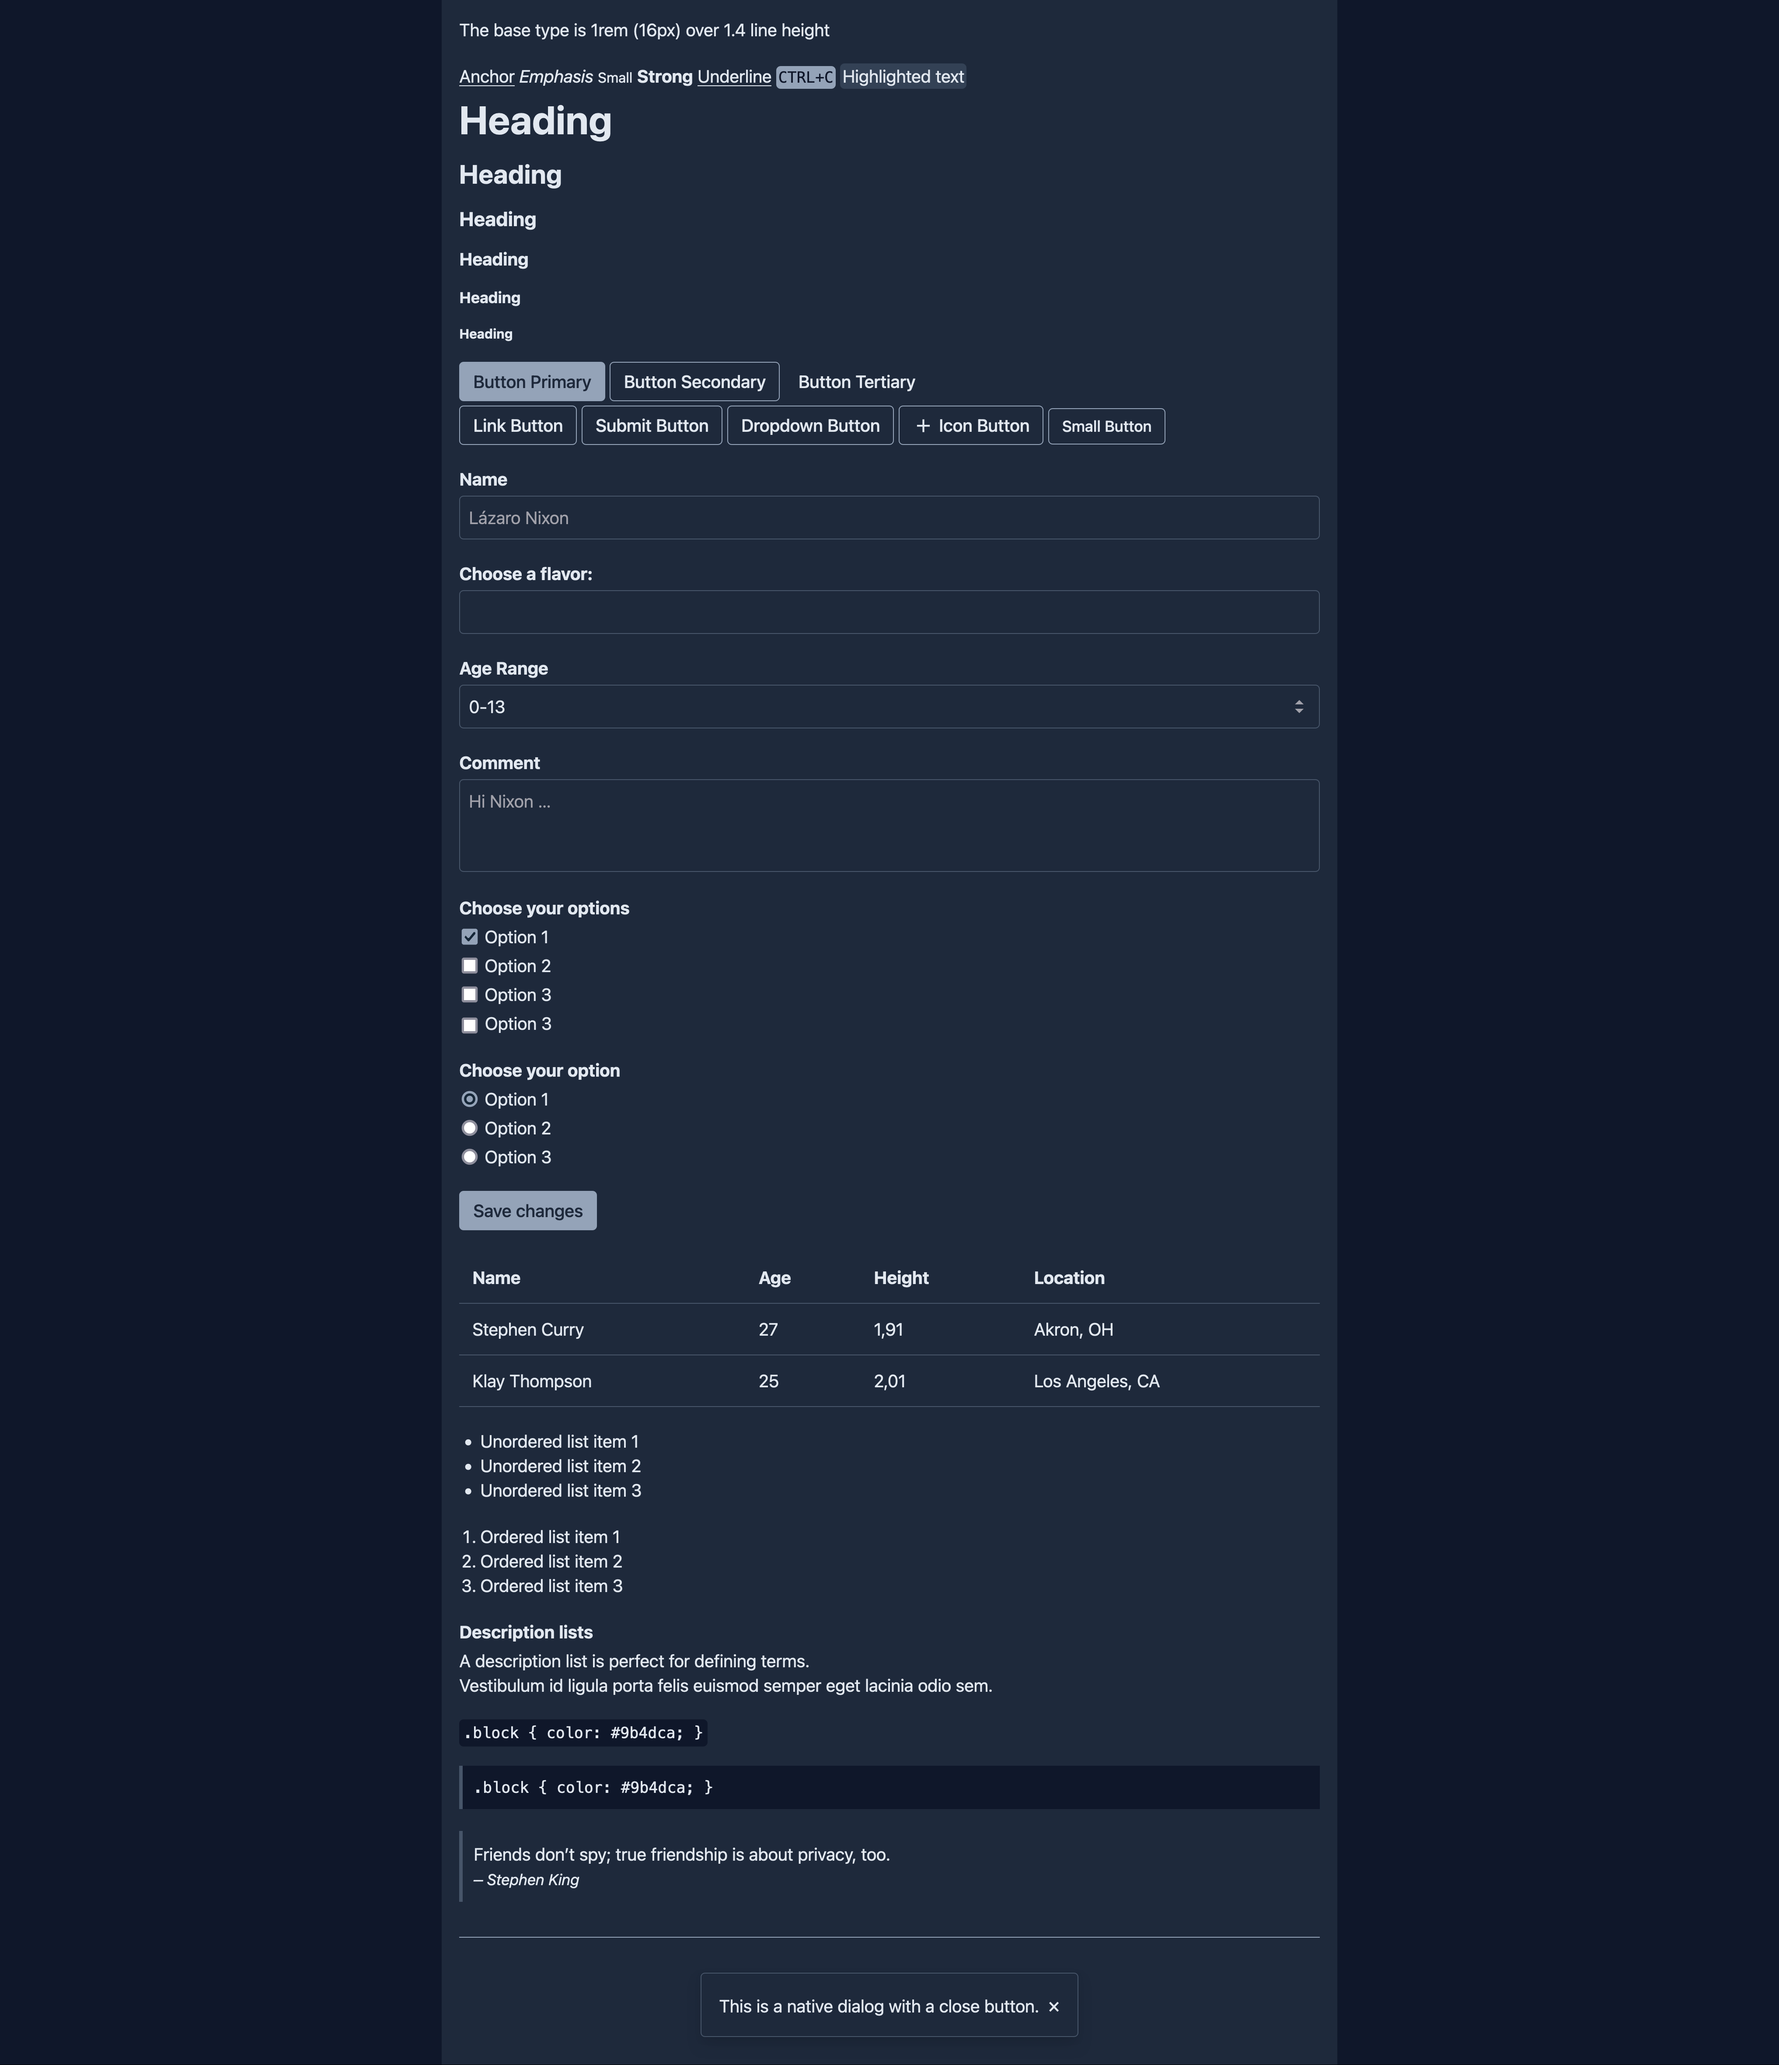
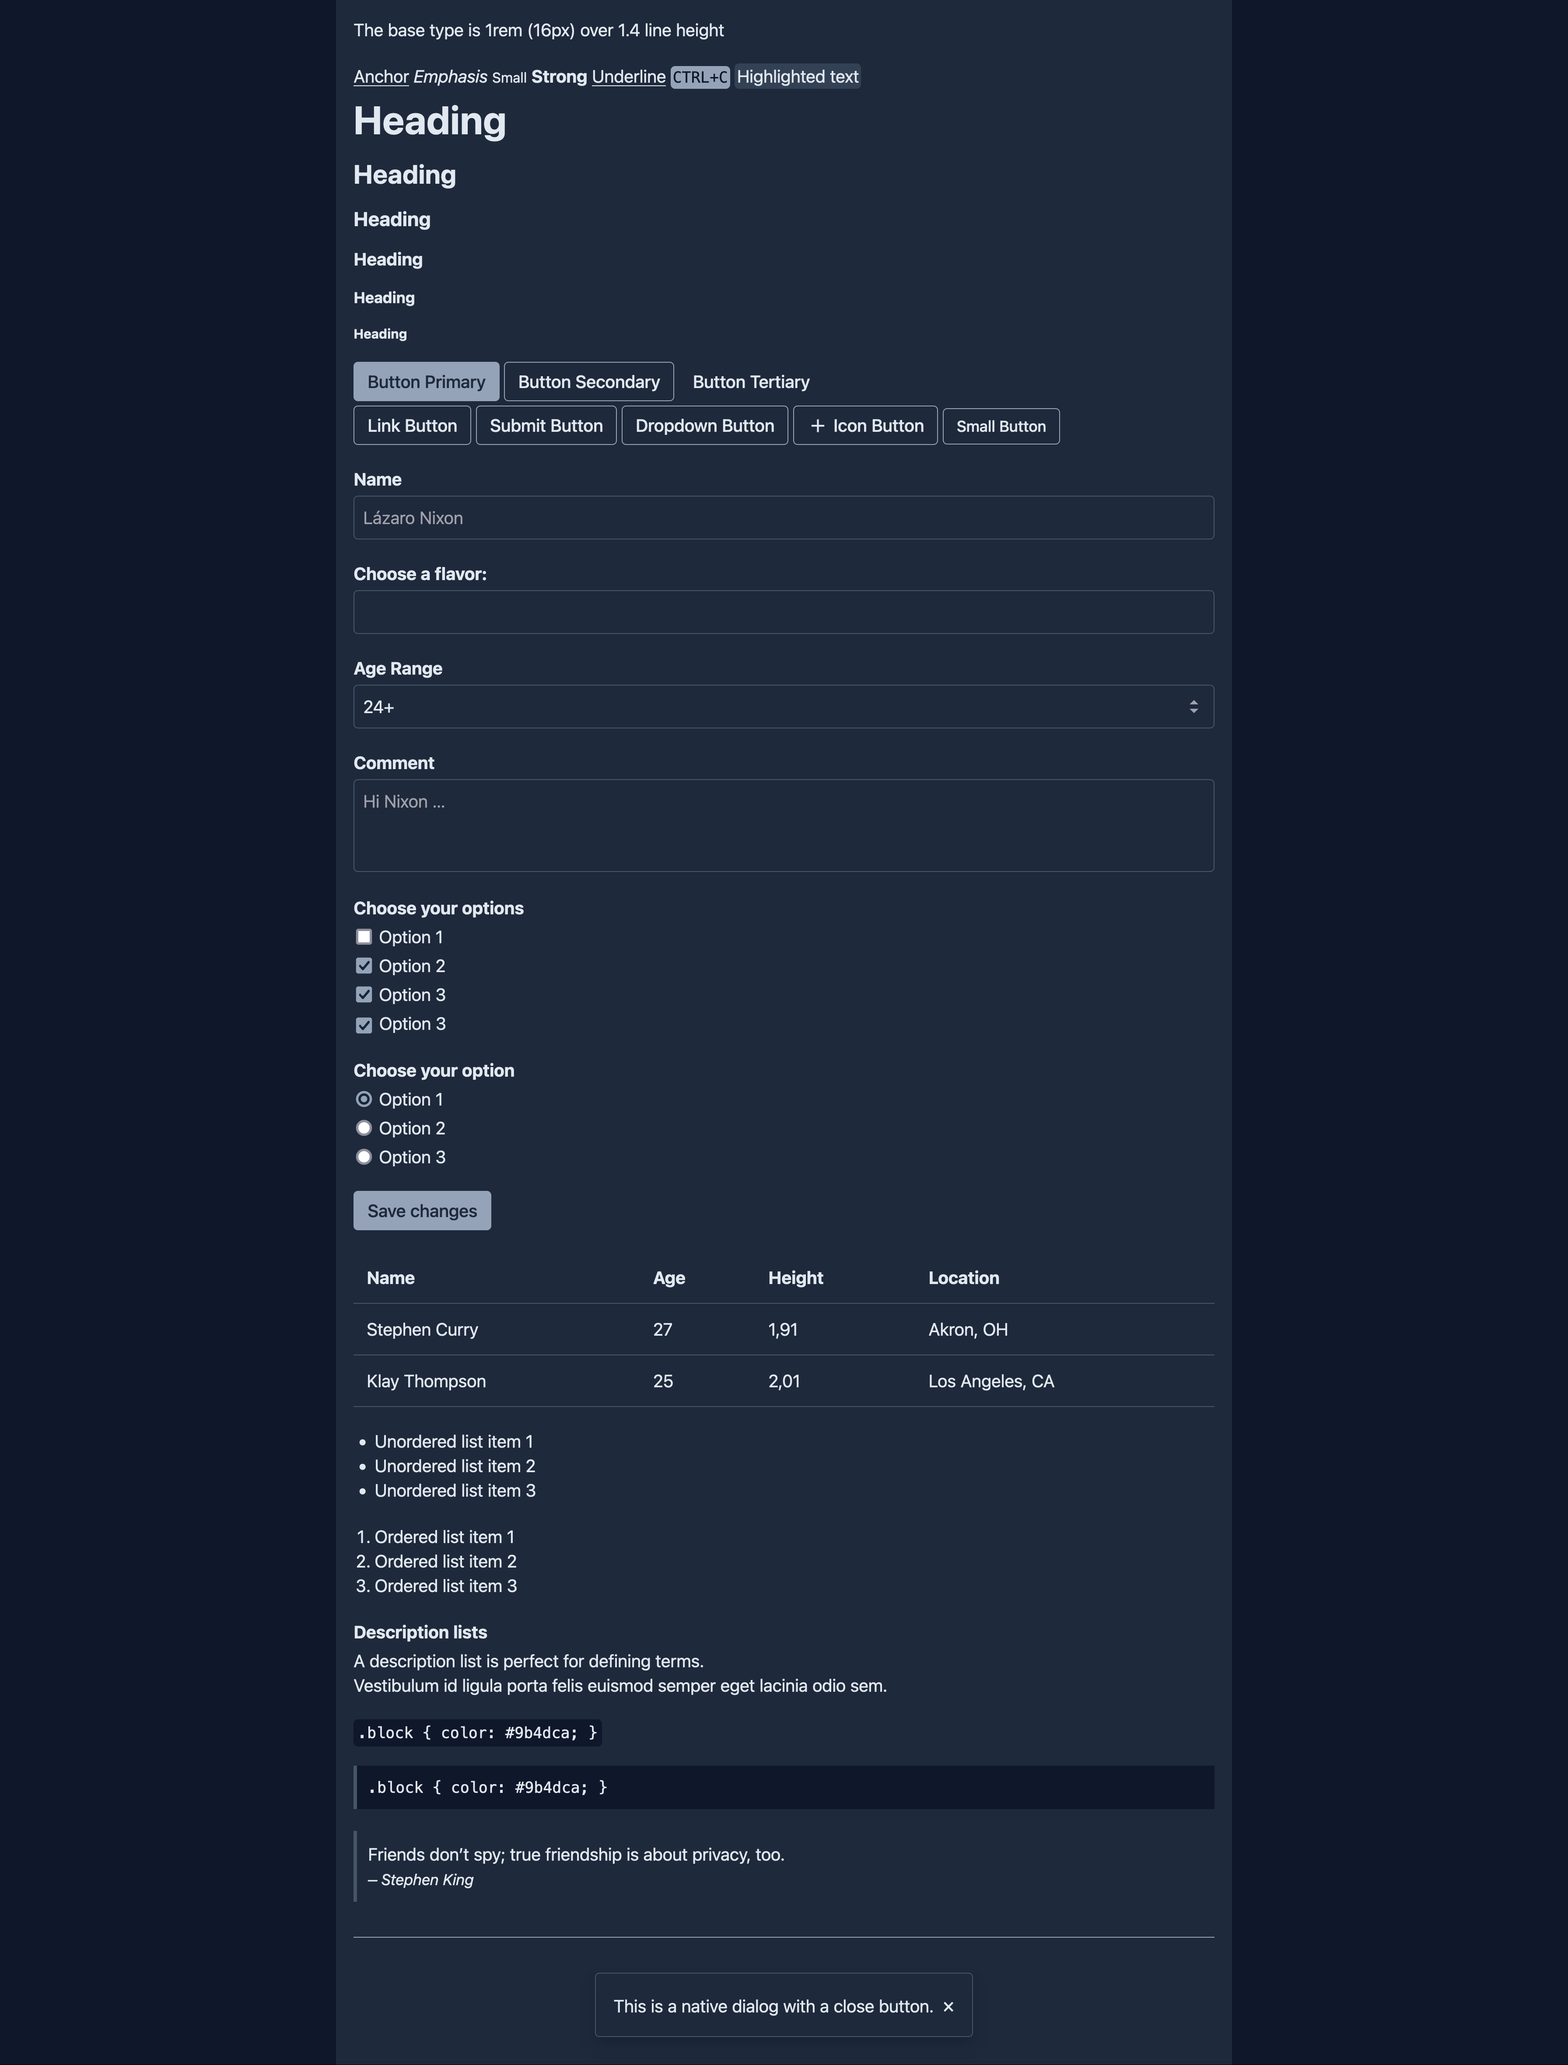
set default border to 300

diff --git a/app/assets/stylesheets/sass-zero/breadboard.scss b/app/assets/stylesheets/sass-zero/breadboard.scss
@@ -10,7 +10,7 @@ $radius-secondary: $rounded;
   --color-bg--main:      #{$gray-100};
   --color-bg--surface:   #{$white};
   --color-bg--highlight: #{$gray-200};
-  --color-border:        #{$gray-200};
+  --color-border:        #{$gray-300};
   --color-primary:       #{$gray-600};
   --color-text:          #{$gray-700};
 }

diff --git a/app/assets/stylesheets/sass-zero/base.scss b/app/assets/stylesheets/sass-zero/base.scss
@@ -12,7 +12,7 @@
   box-sizing: border-box; /* 1 */
   border-width: 0; /* 2 */
   border-style: solid; /* 2 */
-  border-color: $gray-200; /* 2 */
+  border-color: $gray-300; /* 2 */
 }
 
 ::before,
